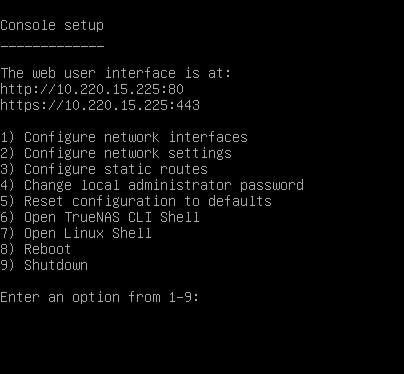
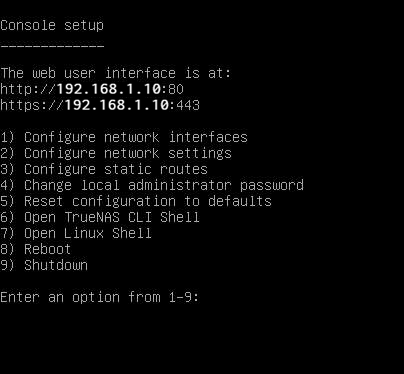
Review Console Setup Menu article
- Remove duplicated cli command.
- Edit ConsoleSetupMenuSCALE.png to show generic IP address.
- Console Setup Menu: Combine copy/paste network warning text into a single statement at the beginning of the section.
- Console Setup Menu: Enforce parallelism in option list.
- Review and clarify language a bit + grammar and spellcheck.

Changed region(s): [[0.1485, 0.2059, 0.4158, 0.2941]]

diff --git a/content/SCALE/GettingStarted/Install/ConsoleSetupMenuScale.md b/content/SCALE/GettingStarted/Install/ConsoleSetupMenuScale.md
@@ -24,26 +24,25 @@ The menu provides these options:
 
 ![ConsoleSetupMenuSCALE](/images/SCALE/22.12/ConsoleSetupMenuSCALE.png "TrueNAS SCALE Console Setup Menu") 
 
+For network configuration options **1**, **2**, and **3**, we recommend using the SCALE UI to configure network interfaces, as it has safeguards to prevent breaking network access to SCALE.
+
 * **1) Configure network interfaces** 
 
-  You can use this to configure the primary network interface with a static IP if you do not want to use the DHCP-assigned IP address TrueNAS provides when the system boots up after installing the SCALE <file>iso</file> file. 
-  You can also use this option to set up other network interfaces or to add alias IP addresses for the primary interface. 
-  We recommend you use the SCALE UI to configure network interfaces, as it has safeguards to prevent you from breaking network access to SCALE.
+  Use this to configure the primary network interface with a static IP. This is for switching away from the DHCP-assigned IP address TrueNAS provides when the system boots after installing SCALE.
+  Also, use this to set up other network interfaces or to add alias IP addresses for the primary interface.
 
 * **2) Configure network settings** 
   
-  You can use this to set up the network default gateway, host name, domain, IPv4 gateway and DNS name servers.
+  Use this to set up the network default gateway, host name, domain, IPv4 gateway and DNS name servers.
   Configured options display in the **Global Configuration** widget in the web UI **Network** screen. 
-  We recommend you use the SCALE UI to configure network interfaces, as it has safeguards to prevent you from breaking network access to SCALE.
 
 * **3) Configure static routes** 
   
-  You can use this to set up static IP routes, but this is not required as part of the initial configuration setup.
-  We recommend you use the SCALE UI to configure network settings, as it has safeguards to prevent you from breaking network access to SCALE.
+  Use this to set up static IP routes, but this is not required as part of the initial configuration setup.
 
 * **4) Change local administrator password** 
   
-  Use to change the administrator user password. `/usr/bin/cli --menu`
+  Use to change the administrator user password.
   If you selected option 1 on the iso installer menu, you already configured the admin user and password. 
   Use can use this to change the admin password before you log into the SCALE UI.
   {{< hint info >}}
@@ -53,7 +52,7 @@ The menu provides these options:
 
 * **5) Reset configuration to defaults** 
   
-  Use to reset the system configuration settings back to defaults.
+  Use to wipe all system configuration settings and return the system to a fresh install state.
 
 * **6) Open TrueNAS CLI Shell** 
 
@@ -63,24 +62,23 @@ The menu provides these options:
 * **7) Open Linux Shell** 
   
   Use to start a shell window for running Linux CLI commands. 
-  We do not recommend using the shell unless you are an advanced user. Type `exit` to leave the shell.
+  Configuration changes made here are not written to the database and are reset on each system boot.
+  We do not recommend using the Linux shell unless you are an advanced user. Type `exit` to leave the shell.
 
 * **8) Reboot** 
 
-  Use to reboot the system.
+  Use to power down, then automatically power on the system.
 
 * **9) Shut down** 
 
-  Use to shut down the system.
+  Use to power down the system.
 
 {{< hint info >}}
 Console setup menu options can change with software updates, service agreements, etc.
 {{< /hint >}}
 
-{{< hint ok >}}
-During boot, TrueNAS attempts to connect to a DHCP server from all live interfaces.
+During its first boot, TrueNAS attempts to connect to a DHCP server from all live interfaces.
 If it receives an IP address, the Console setup menu displays it under **The web user interface is at:** so you can access the SCALE web UI.
-{{< /hint>}}
 
 You might be able to access the web UI using a `hostname.domain` command at the prompt (default is `truenas.local`) if your system:
 
@@ -92,8 +90,6 @@ You might be able to access the web UI using a `hostname.domain` command at the 
 You can either use SCALE UI or the Console setup menu to configure your network settings for the primary network interface or other interfaces such as a link aggregate (LAGG) or virtual LAN (VLAN), or aliases for an interface, and to configure global network settings such as the default gateway, host name, domain, and the DNS name servers, or add static routes. 
 
 {{< include file="/content/_includes/UsingConsoleSetupMenuSCALE.md" type="page" >}}
-
-To use CLI commands, enter `7` to open a Linux shell and then enter commands. 
 
 Enter <kbd>1</kbd> to display the **Configure Network Interfaces** screen where you can select the interface settings. 
 
@@ -121,11 +117,12 @@ Enter <kbd>3</kbd> to display the Static Route Settings screen where you can set
 
 {{< include file="/content/_includes/DHCPCreatedNetwork.md" type="page" >}}
 
-If you want to use the Console setup menu to change the network interface IP address, type <kbd>1</kbd> and then press <kbd>Enter</kbd> to open the **Configure Network Interfaces** screen. 
+To use the Console setup menu to change the network interface IP address, type <kbd>1</kbd> and then press <kbd>Enter</kbd> to open the **Configure Network Interfaces** screen. 
 Use either <kbd>Tab</kbd> or the arrow keys to select the interface to use as your primary network interface if you have more than one interface installed and wired to your network. 
 Type in the IP address then use either <kbd>Tab</kbd> or the arrow keys to move through the menu and down to select **Save**, and then press <kbd>Enter</kbd>. 
 After saving, return to the main Console setup menu by entering <kbd>q</kbd>. 
-If you want to configure the default gateway, host name, domain and DNS name severs using the Console setup menu type <kbd>2</kbd> and then press <kbd>Enter</kbd> to open the **Network Settings** screen. 
+
+To configure the default gateway, host name, domain and DNS name severs using the Console setup menu type <kbd>2</kbd> and then press <kbd>Enter</kbd> to open the **Network Settings** screen. 
 
 To configure network settings in the SCALE UI, enter the IP address displayed on the Console setup menu screen in a browser URL field and press <kbd>Enter</kbd>. 
 Log in with the admin user name and the password you set for the administration user during the <file>iso</file> installation process, and then go to **Network** and or edit and interface or global network configuration settings. 
@@ -142,13 +139,11 @@ SCALE has implemented rootless login, making the admin user the default account,
 You can change the admin user password in the UI or from the Console setup menu.
 You can set and enable the root user password in the UI, but for security hardening, we recommend you leave it disabled.
 
-{{< hint warning >}}
-Disabling a password in the UI prevents the user from logging in with it. If you disable both the root and local admin user passwords and your session times out with them disabled, a temporary sign-in slash screen allows you to log in.
-Immediately go to the **Credentials > Local User** screen, select the admin user, and then **Edit** where you can enable the password.
-{{< /hint >}}
+Changing the admin user (or root if you have not created the admin user) password disables 2FA (Two-Factor Authentication).
 
 {{< hint warning >}}
-Changing the admin user (or root if you have not created the admin user) password disables 2FA (Two-Factor Authentication).
+Disabling a password in the UI prevents the user from logging in with it. When both root and local admin user passwords are disabled and the web interface session times out, a temporary sign-in screen allows logging in.
+Immediately go to the **Credentials > Local User** screen, select the admin user, and then **Edit** to re-enable the password.
 {{< /hint >}}
 
 ## Resetting the System Configuration
